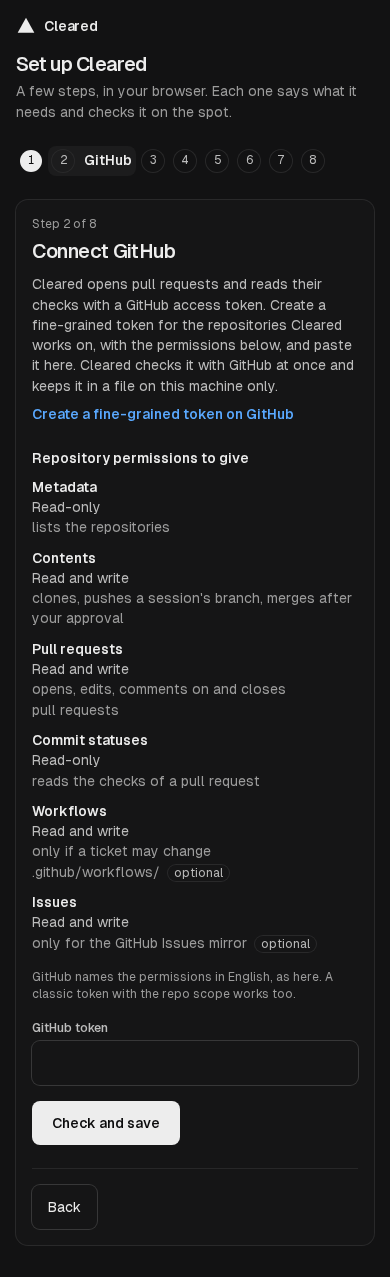
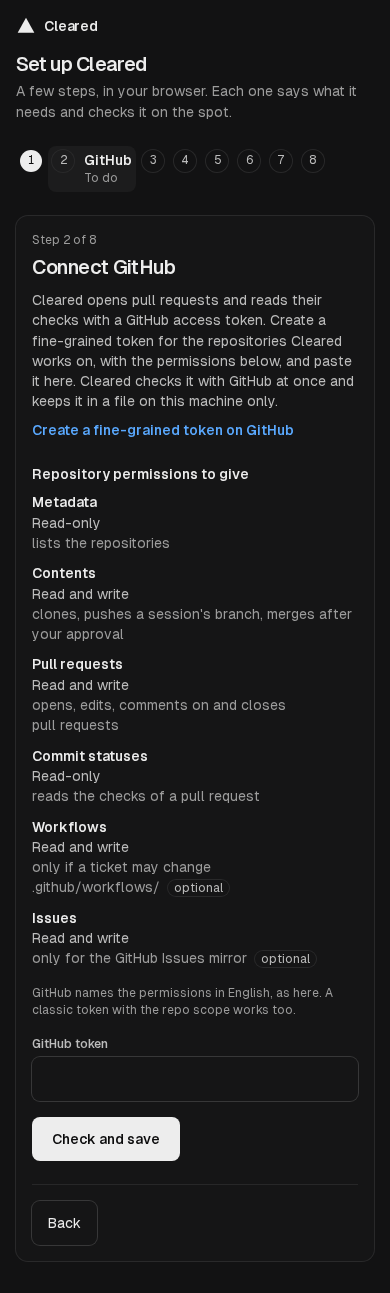
fix(v2): the owner from the settings tested, the setup-token check refuses only what it cannot be, the phone's progress keeps each state for screen readers, the open item named (#407)

diff --git a/v2/test/setup/owner-conf.test.ts b/v2/test/setup/owner-conf.test.ts
@@ -1,0 +1,23 @@
+// The owner the setup assistant names (docs/v2/milestone-5-plan.md, section
+// 5.2, lane v2-j5-assistant): the lock's settings read CLEARED_V2_OWNER_ID,
+// which the settings file sets, when the project's file names no owner_id;
+// a file that names one still wins.
+import test from 'node:test';
+import assert from 'node:assert/strict';
+import { mkdtempSync, rmSync, writeFileSync } from 'node:fs';
+import { tmpdir } from 'node:os';
+import { join } from 'node:path';
+import { readLockConf } from '../../src/approval/conf.ts';
+
+test('the owner comes from the settings when the file names none, and from the file when it does', () => {
+  const dir = mkdtempSync(join(tmpdir(), 'cleared-owner-conf-'));
+  try {
+    const none = join(dir, 'none.conf');
+    writeFileSync(none, '[tracker]\nhuman_public_key = abc\n');
+    assert.equal(readLockConf({ CLEARED_CONF: none, CLEARED_V2_OWNER_ID: 'alex' }).ownerId, 'alex');
+    assert.equal(readLockConf({ CLEARED_CONF: none }).ownerId, undefined);
+    const named = join(dir, 'named.conf');
+    writeFileSync(named, '[tracker]\nowner_id = sam\n');
+    assert.equal(readLockConf({ CLEARED_CONF: named, CLEARED_V2_OWNER_ID: 'alex' }).ownerId, 'sam');
+  } finally { rmSync(dir, { recursive: true, force: true }); }
+});

diff --git a/v2/src/setup/steps/model.ts b/v2/src/setup/steps/model.ts
@@ -31,8 +31,11 @@ export const MODEL_FILE = 'claude.token';
 const TERMINAL = 'setup';
 
 // What `claude setup-token` prints: a long-lived OAuth token of a Claude
-// subscription. An API key (sk-ant-api…) is told apart and refused.
-export const looksLikeSetupToken = (value: string): boolean => /^sk-ant-oat\d{2}-[A-Za-z0-9_-]{20,}$/.test(value);
+// subscription, one line (sk-ant-oat01-… today). Only what it cannot be is
+// refused, so a change of its prefix does not lock a newcomer out: a paste
+// with a space or a line break, one too short, and an API key (sk-ant-api…),
+// which the adapter does not read.
+export const looksLikeSetupToken = (value: string): boolean => /^[A-Za-z0-9_-]{20,4096}$/.test(value) && !value.startsWith('sk-ant-api');
 
 function credentialOf(deps: StepDeps): CredentialView {
   if (deps.fromEnvironment.has('CLEARED_CLAUDE_CREDENTIALS')) return { set: true, at: null, source: 'environment' };

diff --git a/v2/app/web/screens/setup/setup.css b/v2/app/web/screens/setup/setup.css
@@ -91,7 +91,6 @@
 @media (max-width: 640px) {
   .setup { padding: var(--space-3) 16px 32px; }
   .setup-main { padding: var(--space-3); }
-  .setup-progress-state { display: none; }
   .setup-progress li:not([aria-current="step"]) .setup-progress-text { position: absolute; width: 1px; height: 1px; overflow: hidden; clip-path: inset(50%); white-space: nowrap; }
   .setup-rights { grid-template-columns: minmax(0, 1fr); gap: 2px; }
   .setup-rights li { display: block; margin-bottom: var(--space-2); }

diff --git a/docs/v2/decisions-log.md b/docs/v2/decisions-log.md
@@ -6749,7 +6749,7 @@ The three issues were then closed by hand as not planned. Nothing ran against Li
 4. **The settings file** (`src/setup/settings.ts`): `<state>/settings.conf`, mode 600, in the format of agents.conf, with two sections, since Cleared's settings are environment variables: `[env]` gives a variable its value, `[env_files]` gives it the content of a file of mode 600, so no credential is a line of it. Only `CLEARED_*` variables and `GH_TOKEN` may be set. `src/setup/load.ts` is the first import of `src/main.ts` and `app/main.ts`, so the file applies before any module reads a setting; a variable the environment set wins, then and every later time the file is read again (the setup module reads it before each request, so what the app wrote reaches the service). A credential file that is a link, another account's, readable by others or empty is not applied, and the log names the variable.
 5. **The forge step** (`src/setup/steps/forge.ts`) checks a GitHub credential on its own, as section 17 says (`listRepositories()` of lane `v2-j5-forge` merged meanwhile; lane `v2-j5-gitlab` moves the step onto the contract): one read of `GET /user/repos?per_page=100`, the credential in the authorization header only, 15 s at most. GitHub's 401 and 403 are said apart, no answer is "unreachable", and a credential that reaches no repository is refused. One that passes is written to `<state>/forge-github.token`, named as `GH_TOKEN`'s file, and set in the service at once. The answer gives the number of repositories, whether there are more, and five names; no answer, settings line or log holds the value. A `GH_TOKEN` or `GITHUB_TOKEN` the environment gives is shown as such and not replaced from the browser. The API address is GitHub's, or one on loopback for a test (`CLEARED_V2_FORGE_GITHUB_API`).
 6. **The rights of a fine-grained credential** (the plan's unknown of section 5.6), listed on the step from the `gh` calls of section 6 and the lock's merge, and checked against GitHub's page "Permissions required for fine-grained personal access tokens": Metadata read, Contents read and write, Pull requests read and write, Commit statuses read; Workflows read and write only for a ticket that changes `.github/workflows/`, Issues read and write only for the GitHub Issues mirror. GitHub's page lists no Checks permission for these credentials, so whether `gh pr checks` reads check runs with one is left to the rehearsal or the real run; the step says a classic credential with the `repo` scope works too.
-7. **The model step** (`src/setup/steps/model.ts`) takes what `claude setup-token` prints, told apart from an API key by its form, writes it to `<state>/claude.token`, where the Claude Code adapter already reads it, names it as `CLEARED_CLAUDE_CREDENTIALS` and sets that in the service. Its terminal is a shell in a throwaway container of the session image (`src/setup/container.ts`): a fresh id, labelled `cleared.dev=v2` and `cleared.role=setup`, no mount, no credential in its environment, every capability dropped, no new privileges, 512 MB, one CPU and 128 processes, Docker's default network (the command signs in on the web), an hour at most, removed by label and name when the terminal closes. It goes through the web terminal's manager with no journal and no first line, one at a time, the owner's only, and through the app on the loopback address only, as a session's terminal (`TERMINAL_PATH` now names both). The session terminal's stream became `streamTerminal`, shared, and a terminal program may replace its first line (`intro`); the session's behaviour is unchanged.
+7. **The model step** (`src/setup/steps/model.ts`) takes what `claude setup-token` prints (one line, `sk-ant-oat01-…` today; only a paste with a space, one too short and an API key are refused, so a change of its prefix does not lock a newcomer out), writes it to `<state>/claude.token`, where the Claude Code adapter already reads it, names it as `CLEARED_CLAUDE_CREDENTIALS` and sets that in the service. Its terminal is a shell in a throwaway container of the session image (`src/setup/container.ts`): a fresh id, labelled `cleared.dev=v2` and `cleared.role=setup`, no mount, no credential in its environment, every capability dropped, no new privileges, 512 MB, one CPU and 128 processes, Docker's default network (the command signs in on the web), an hour at most, removed by label and name when the terminal closes. It goes through the web terminal's manager with no journal and no first line, one at a time, the owner's only, and through the app on the loopback address only, as a session's terminal (`TERMINAL_PATH` now names both). The session terminal's stream became `streamTerminal`, shared, and a terminal program may replace its first line (`intro`); the session's behaviour is unchanged.
 8. **The registry** (`src/setup/steps.ts`, `src/setup/step.ts`): a step declares whether it is filled, whether it may be skipped, its tables, its routes under `/api/setup/<its id>` and, if its state is not only its record, when it is done. The owner, forge and model cannot be skipped. `workspace`, `environment`, `secrets`, `checks` and `first-ticket` are stubs that can be skipped, each with its file, its screen and its catalog pair under the names the later lanes own. `src/setup/summary.ts` is not made: it is lane `v2-j5-first-ticket`'s.
 9. **The records** (`src/setup/records.ts`): when a step was shown (the first time counts), done or skipped, and the machine's time on it (the forge's check, the terminal's start). The person's time is the time from shown to done or skipped less the machine's, never below zero. `GET /api/setup` answers every step with its state and times and the totals.
 10. **Modules.** `setup` filled, `run` and `secrets` stubs, in `MODULE_NAMES` and `src/main.ts` (twelve modules); the three tests that list the modules name them.
@@ -6761,13 +6761,15 @@ The three issues were then closed by hand as not planned. Nothing ran against Li
 2. The terminal's network: Docker's default network (applied), since `claude setup-token` signs in on the web; or the session's egress with an allow list for Anthropic's sign-in addresses, which the proof's real run can measure.
 3. The public key still goes into the project's `.cleared/agents.conf` by a commit the owner makes (applied, as the plan's section 5.2 says); the first ticket's lane could propose that line as its first change instead.
 
+**Open: the running service sees the new key at its next start.** The approval module builds its environment once, when the service starts (`approvalEnvironment` in `approval/service.ts`, called by the module's `provide`): it loads the signing key and reads the owner then. On a fresh install the service starts before the owner exists, so until it restarts, an approval is refused with "no approval signing key", although the owner step made the key and named the owner. Nothing here restarts the service. Proof step 9 needs it: lane `v2-j5-first-ticket` (or `v2-j5-compose`, with a restart the one command owns) closes it, by building the approval's environment when it is first needed, or reading it again when the settings change.
+
 **Not done here.** The forge step's real check against the example repository (plan section 5.5) was not run: the issue says fakes only, so the step is proven against a fake GitHub on loopback, and the real check is the rehearsal's or the real run's. A real `claude setup-token` in the terminal stays the proof's (section 5.6).
 
-**Tests first.** `6b5ba28` committed the tests alone, with the module lists and the catalog test taught the new modules and catalogs. On it, 13 of 25 failed: the twelve new test files could not load what they test (no `src/setup/`, no setup module, no setup catalogs), and the two module-list tests found nine modules. Changes that came with the code: the fake container of `test/setup/model.test.ts` fired its exit inside its end, which no process does, and now fires it after; the screens' time cases expect the shell's own units ("2 min" with a no-break space, "40s" in English); `visibleText` gives a list, which the cases now join. The owner's short password is refused as `phrase`, not `password` (decision 12), and its case says so. Four existing tests changed with the code: the bundles test lets the setup screen reach xterm by a dynamic import, as the session screen does, and still no other screen; the i18n audit reads the setup catalogs, gives the setup screen's files the shell's catalog, the assistant's and every step's, and names why fourteen French strings equal the English ones (GitHub's own names of the permissions and accesses, GitHub and Claude Code, the command, Shell, and a template whose only word is "machine"); the copy test made the forge's "no repository" sentence one sentence; the tokens test made the code block's font a family, a size and a line height.
+**Tests first.** `6b5ba28` committed the tests alone, with the module lists and the catalog test taught the new modules and catalogs. On it, 13 of 25 failed: the twelve new test files could not load what they test (no `src/setup/`, no setup module, no setup catalogs), and the two module-list tests found nine modules. Changes that came with the code: the fake container of `test/setup/model.test.ts` fired its exit inside its end, which no process does, and now fires it after; the screens' time cases expect the shell's own units ("2 min" with a no-break space, "40s" in English); `visibleText` gives a list, which the cases now join. The owner's short password is refused as `phrase`, not `password` (decision 12), and its case says so. After the review, `test/setup/owner-conf.test.ts` was added for the owner `approval/conf.ts` now reads from the settings, the model step's check was loosened as decision 7 says, and the phone's progress line keeps each step's state for assistive technology (it was hidden with `display: none`). Four existing tests changed with the code: the bundles test lets the setup screen reach xterm by a dynamic import, as the session screen does, and still no other screen; the i18n audit reads the setup catalogs, gives the setup screen's files the shell's catalog, the assistant's and every step's, and names why fourteen French strings equal the English ones (GitHub's own names of the permissions and accesses, GitHub and Claude Code, the command, Shell, and a template whose only word is "machine"); the copy test made the forge's "no repository" sentence one sentence; the tokens test made the code block's font a family, a size and a line height.
 
 **Captures** (`docs/v2/setup-assistant/`): the forge step at 1440, 1280, 768 and 390 px, light and dark, in English; the model step with its terminal open in French; the last page. Taken by `app/test/setup/setup-browser.test.ts` with `CLEARED_V2_CAPTURES`, on loopback ports the kernel picked.
 
-**Checks** (at `4bdadeb`, after the merge of `origin/v2` at `3026f55`, pull request 409 merged). `npm run typecheck` passes. `npm test`: 2577 Node tests, 2466 pass, 111 skipped, 0 fail, and 366 Vitest tests pass (on `origin/v2` at `e4ffb72`, before the lane: 2486 Node tests and 359 Vitest tests). `app/test/setup/setup-browser.test.ts` with `CLEARED_V2_PLAYWRIGHT` set: both languages pass, axe finding nothing. The whole suite with `CLEARED_V2_PLAYWRIGHT` set, before the merge: 2537 pass, 2 skipped, 1 fail, `app/test/notify/browser.test.ts` (the button is never offered in this server's headless Chrome), which fails the same way on `origin/v2` at `e4ffb72` without this lane. `npm run guard -- --base origin/v2`: nothing refused (decision 12). The guard does not read `docs/v2/`, so the lane's diff was also searched for the owner's name, the organisation's and the first piloted project's: none.
+**Checks** (after the review's changes, on the merge of `origin/v2` at `3026f55`, pull request 409 merged). `npm run typecheck` passes. `npm test`: 2578 Node tests, 2467 pass, 111 skipped, 0 fail, and 366 Vitest tests pass (on `origin/v2` at `e4ffb72`, before the lane: 2486 Node tests and 359 Vitest tests). `app/test/setup/setup-browser.test.ts` with `CLEARED_V2_PLAYWRIGHT` set: both languages pass, axe finding nothing. The whole suite with `CLEARED_V2_PLAYWRIGHT` set, before the merge: 2537 pass, 2 skipped, 1 fail, `app/test/notify/browser.test.ts` (the button is never offered in this server's headless Chrome), which fails the same way on `origin/v2` at `e4ffb72` without this lane. `npm run guard -- --base origin/v2`: nothing refused (decision 12). The guard does not read `docs/v2/`, so the lane's diff was also searched for the owner's name, the organisation's and the first piloted project's: none.
 
 **Resources.** No Docker object (the container is proven against the fake docker CLI), no Claude Code login read, no GitHub, Slack, Cursor or Codex account used, no network beyond `npm ci` of the lock file, `git fetch`, GitHub's documentation page and GitHub for the issue and the pull request. No port but the tests' own ephemeral loopback ones, no tunnel, no secret.
 

diff --git a/docs/v2/requirements-matrix.md b/docs/v2/requirements-matrix.md
@@ -388,7 +388,7 @@ Every requirement of the brief (the orchestrator's prompt and the owner's decisi
 | P245 | The service map (M6, issue #397, [milestone-4-plan.md](milestone-4-plan.md) section 12): each service read from git's objects at `refs/remotes/origin/<base>` of its own checkout, never its working tree, its code files only (no tests, dependencies or builds; plain text files of at most 256 KB, at most 2 000 files and 16 MB, past which it says `capped`), with its agents.conf, its package.json and its contract; a call is a path of another service's OpenAPI contract right after an interpolation, a base address or a concatenation, or in quotes on a line that calls `fetch`, `request`, `axios`, `got`, `requests` or `http.get`, never in a comment, a route table or a comparison, and is declared (`consumes`), found, or both; an event is a channel of another service's AsyncAPI contract named in quotes; a database is an engine of `[session] services` or of the dependencies (never a setting's value) with the tables its `CREATE TABLE` makes, shared when another service reads or writes one; only identifiers are kept, the rest dropped and counted; the map is stored with its base commits (`service_maps`) and built again when a base commit, a fetch's outcome or the workspace file moves, at the start, every `CLEARED_V2_MAP_MINUTES` (10, 0 for never) and on `POST /api/service-map/refresh` (a known user); `GET /api/service-map` gives it with each service's impact: its callers, directly and through others, its listeners, the services sharing its databases, the callers that must change with its contract, the calls found and not declared, and the landing order by `landingOrder`; the lead's `service_impact` says it in text, cut at 8 KB; the train keeps reading `consumes` alone; the app's `/services`, reached from the tower's line of services, the palette and G M, not the sidebar: one SVG image with its name, each kind of link a line and a word, the links in words, the services as buttons and the impact of the one picked, French and English, times through `lib/time.ts` (the author's choices, decisions log of 2026-10-25) | 4 | 402 (lane `v2-j4-service-map`, issue #397) | the files M6 names | done |
 | P246 | The GitHub mirror's doctor section (B5.8b, B4.6, issue #400, [milestone-4-plan.md](milestone-4-plan.md) section 13): `node scripts/doctor.ts mirror`, run only when named, reads the mirror's settings as the service does; checks that the token file can be read and is not empty without ever printing it (a link, another account's file or one the group or others can read is a notice), that each repository of the workspace's services answers with its issues on and the token's account allowed to label and close them, that the status labels a person picks on GitHub's page exist (the four between Todo and Done, in `[tracker] *_state`'s names), and the mirror's last full pass from the ledger read-only (none yet a notice, older than `CLEARED_V2_HEARTBEAT_TRACKER_MINUTES` a failure); writes nothing on GitHub or in the ledger; says GitHub's status code, never its answer's body; French and English | 4 | 403 (lane `v2-j4-mirror-doctor`, issue #400) | `test/tickets/mirror-doctor.test.ts`, `test/tickets/mirror-doctor-cli.test.ts` (the token in no output on any path), `test/tickets/mirror-doctor-catalog.test.ts`; `doctor mirror` (the real run on the example repository, quoted in the pull request) | done |
 | P247 | The forge as an adapter (M10, issue #408, [milestone-5-plan.md](milestone-5-plan.md) section 6, decision 10): `src/forge/contract.ts` names what Cleared asks of a forge (the repositories the credential reaches, one repository, the open pull request of a branch, open one, read and replace its body, its state and branch, its head commit, its checks summed up, its failed checks with the end of their logs, close it with a comment and never delete its branch); `src/forge/github.ts` makes the same `gh` calls as before, each with its call site's timeout and output cap, a repository and a pull request number checked before any call, a body given to `gh` as a private file removed after the call; `listRepositories()` reads `user/repos`, or `installation/repositories` for an app installation's token (`ghs_`), page by page, sorted by name, at most 1000, each with its clone address, default branch and whether private or archived; publish, the release card's checks, the repair's failures, the Close and the approval's head go through it; a service's `forge` key in the workspace file is `github` or absent (GitHub), anything else refused, and `GET /api/workspace` does not show it; the lock's merge stays on `gh` until GitLab needs it (the author's choices, decisions log of 2026-10-25) | 5 | 409 (lane `v2-j5-forge`, issue #408) | `test/forge/contract.test.ts` (the fake forge and the GitHub adapter over a fake `gh` pass the same cases, `test/forge/contract-cases.ts`, which GitLab's adapter reuses), `test/forge/github.test.ts` (each call's command line, folder and environment), `test/forge/call-sites.test.ts`, `test/forge/workspace-config.test.ts`; the existing tests of publishing, checks, repair, Close and approval unchanged; the real run on the example repository, quoted in the pull request | done |
-| P248 | The browser setup assistant (B6.5, issue #407, [milestone-5-plan.md](milestone-5-plan.md) section 5, decisions 5, 6, 7 and 9): on a ledger with no account the service prints a one-time setup code (eight characters a person cannot misread, its SHA-256 and its 24-hour end kept, a new one at each start, dead once any account exists) in the line `SETUP_CODE_LINE` reads; the app, only when `app/main.ts` turns the gate on, sends every page to `/setup`, and `POST /setup/owner` (the sign-in form's origin checks and throttle) makes the owner's account and spends the code in one transaction, signs the owner in, makes the approval key as `npm run setup` does and names the owner in the settings; `<state>/settings.conf` (mode 600, `[env]` and `[env_files]`, `CLEARED_*` and `GH_TOKEN` only) is applied under the environment before any module reads a setting, a credential being a file of mode 600 of its own; the forge step checks a GitHub credential with one read of `GET /user/repos`, says 401, 403, no answer and no repository apart, lists the rights of a fine-grained credential, and keeps the value out of every answer, settings line and log; the model step writes what `claude setup-token` prints where the Claude Code adapter reads it (no API key: the adapter reads none), with a terminal in a throwaway container of the session image (labelled, no mount, no credential, capabilities dropped, removed at its close), on the app's loopback address only; the steps' registry with a stub per later step under the names the later lanes own, each step's person's and machine's time recorded; the pages at `/setup/<step>` in French and English, a progress line with each step's state and time in words (the author's choices, decisions log of 2026-10-25) | 5 | <PR> (lane `v2-j5-assistant`, issue #407) | `test/setup/settings.test.ts`, `test/setup/code.test.ts`, `test/setup/records.test.ts`, `test/setup/steps.test.ts`, `test/setup/owner.test.ts`, `test/setup/forge.test.ts` (a fake GitHub on loopback), `test/setup/model.test.ts`, `test/setup/container.test.ts` (the fake docker CLI), `app/test/setup/setup-app.test.ts`, `app/test/setup/routes.test.ts`, `app/web/test/setup/setup.test.tsx`, `app/test/setup/setup-browser.test.ts` (both languages, axe, the captures in `docs/v2/setup-assistant/`) | done |
+| P248 | The browser setup assistant (B6.5, issue #407, [milestone-5-plan.md](milestone-5-plan.md) section 5, decisions 5, 6, 7 and 9): on a ledger with no account the service prints a one-time setup code (eight characters a person cannot misread, its SHA-256 and its 24-hour end kept, a new one at each start, dead once any account exists) in the line `SETUP_CODE_LINE` reads; the app, only when `app/main.ts` turns the gate on, sends every page to `/setup`, and `POST /setup/owner` (the sign-in form's origin checks and throttle) makes the owner's account and spends the code in one transaction, signs the owner in, makes the approval key as `npm run setup` does and names the owner in the settings; `<state>/settings.conf` (mode 600, `[env]` and `[env_files]`, `CLEARED_*` and `GH_TOKEN` only) is applied under the environment before any module reads a setting, a credential being a file of mode 600 of its own; the forge step checks a GitHub credential with one read of `GET /user/repos`, says 401, 403, no answer and no repository apart, lists the rights of a fine-grained credential, and keeps the value out of every answer, settings line and log; the model step writes what `claude setup-token` prints where the Claude Code adapter reads it (no API key: the adapter reads none), with a terminal in a throwaway container of the session image (labelled, no mount, no credential, capabilities dropped, removed at its close), on the app's loopback address only; the steps' registry with a stub per later step under the names the later lanes own, each step's person's and machine's time recorded; the pages at `/setup/<step>` in French and English, a progress line with each step's state and time in words. Open: the running service loads the signing key and the owner at its start, so it sees the ones the owner step made at its next start (lane `v2-j5-first-ticket` or `v2-j5-compose`) (the author's choices, decisions log of 2026-10-25) | 5 | <PR> (lane `v2-j5-assistant`, issue #407) | `test/setup/settings.test.ts`, `test/setup/code.test.ts`, `test/setup/records.test.ts`, `test/setup/steps.test.ts`, `test/setup/owner.test.ts`, `test/setup/owner-conf.test.ts`, `test/setup/forge.test.ts` (a fake GitHub on loopback), `test/setup/model.test.ts`, `test/setup/container.test.ts` (the fake docker CLI), `app/test/setup/setup-app.test.ts`, `app/test/setup/routes.test.ts`, `app/web/test/setup/setup.test.tsx`, `app/test/setup/setup-browser.test.ts` (both languages, axe, the captures in `docs/v2/setup-assistant/`) | done |
 
 ## Reste avant v2 -> main
 
